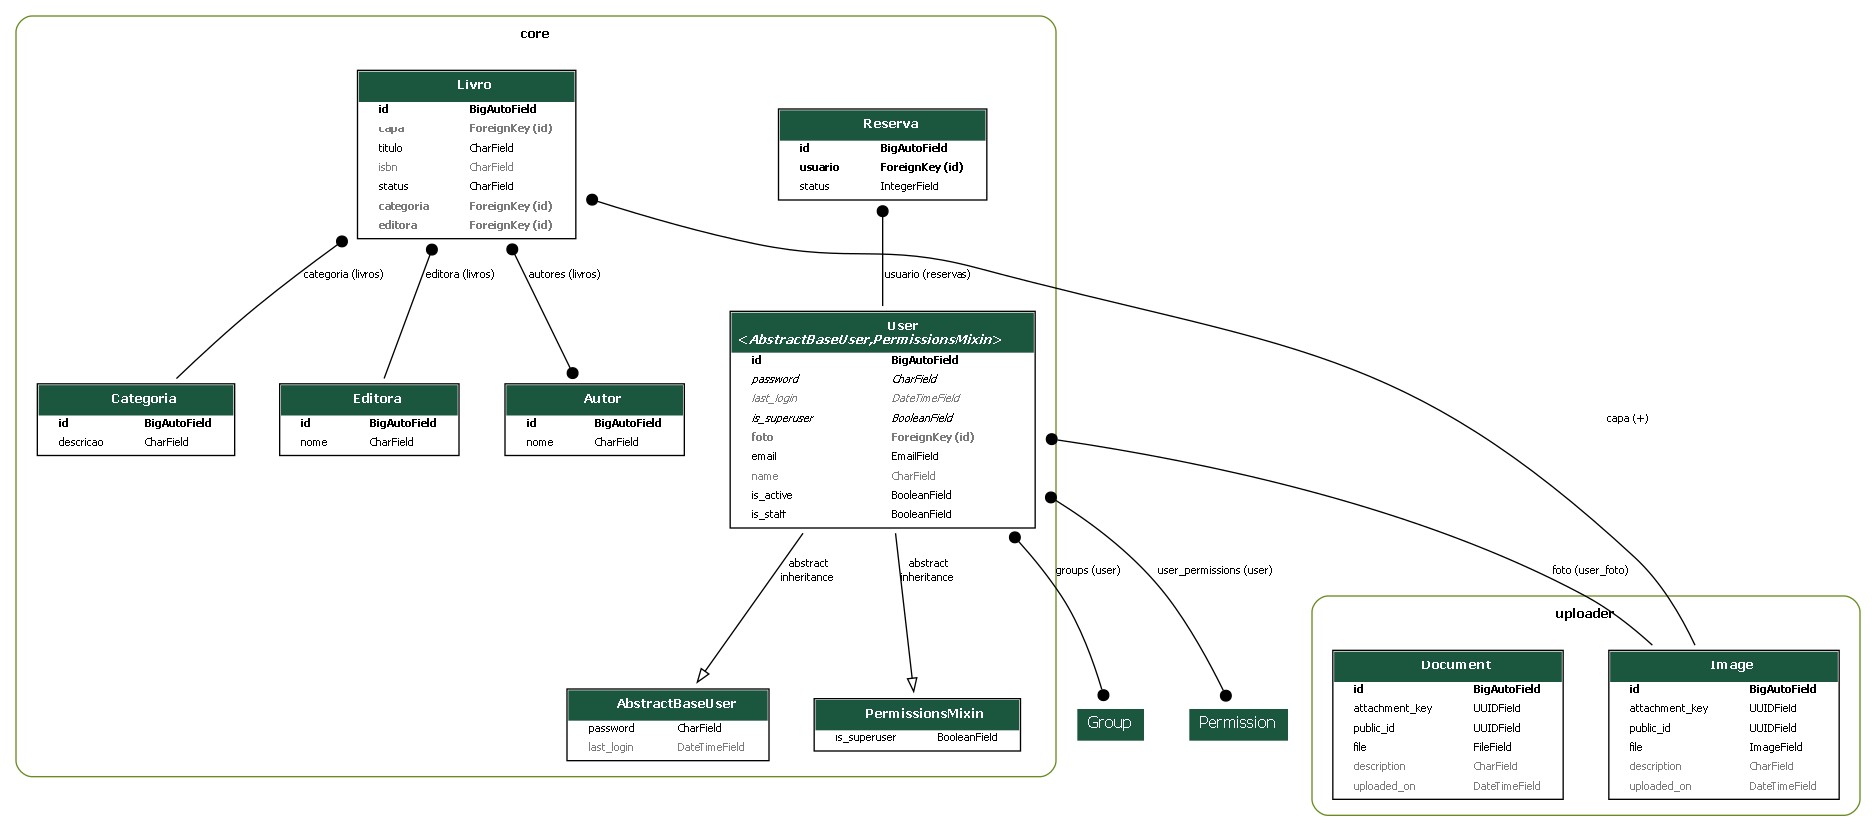
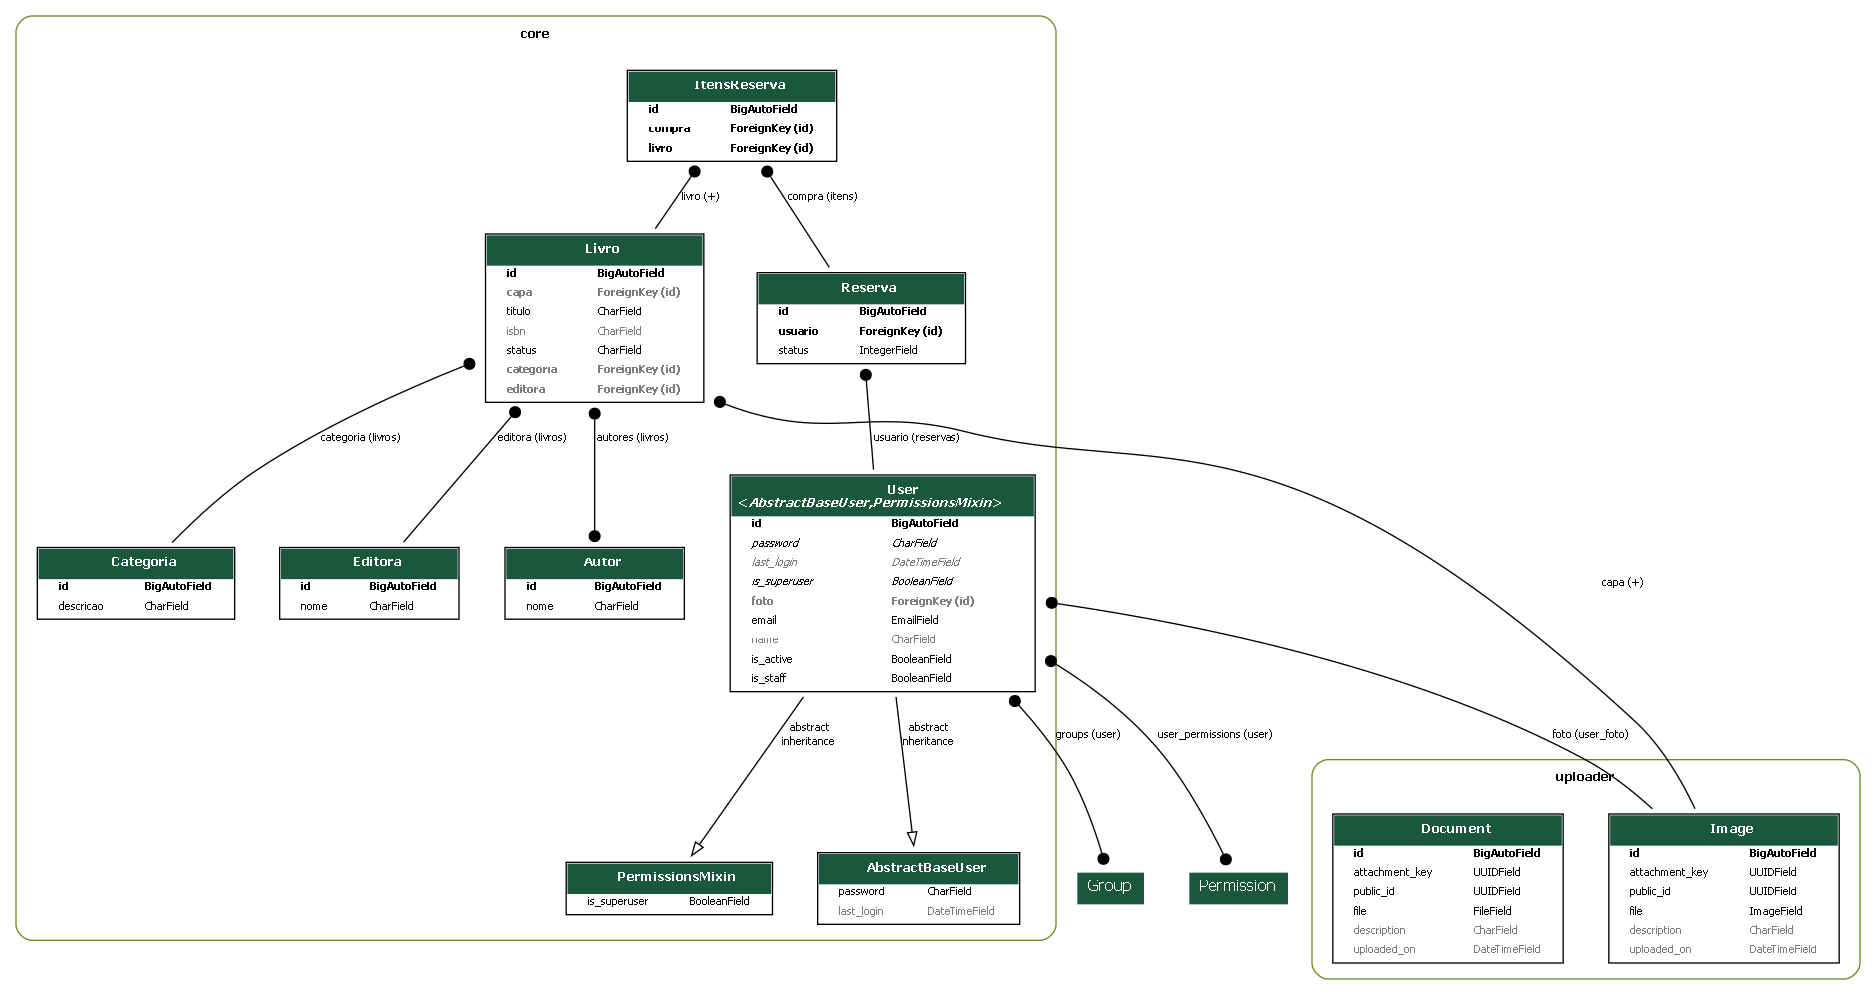
feat: criação dos itens da reserva

diff --git a/core/migrations/0017_itensreserva.py b/core/migrations/0017_itensreserva.py
@@ -1,0 +1,22 @@
+# Generated by Django 5.2.17 on 2026-09-23 11:22
+
+import django.db.models.deletion
+from django.db import migrations, models
+
+
+class Migration(migrations.Migration):
+
+    dependencies = [
+        ('core', '0016_reserva'),
+    ]
+
+    operations = [
+        migrations.CreateModel(
+            name='ItensReserva',
+            fields=[
+                ('id', models.BigAutoField(auto_created=True, primary_key=True, serialize=False, verbose_name='ID')),
+                ('compra', models.ForeignKey(on_delete=django.db.models.deletion.CASCADE, related_name='itens', to='core.reserva')),
+                ('livro', models.ForeignKey(on_delete=django.db.models.deletion.PROTECT, related_name='+', to='core.livro')),
+            ],
+        ),
+    ]

diff --git a/core/admin.py b/core/admin.py
@@ -8,6 +8,7 @@ from django.contrib.auth.admin import UserAdmin as BaseUserAdmin
 from django.utils.translation import gettext_lazy as _
 from core.models import Autor, Categoria, Editora, Livro, User, Reserva
 from core import models
+from core.models.reserva import ItensReserva
 
 @register(User)
 class UserAdmin(BaseUserAdmin):
@@ -89,3 +90,11 @@ class ReservaAdmin(ModelAdmin):
     list_display = ('usuario', 'status')
     ordering = ('usuario', 'status')
     list_per_page = 10
+
+@register(ItensReserva)
+class ItensReservaAdmin(ModelAdmin):
+    list_display = ('reserva', 'livro')
+    search_fields = ('livro__titulo',)
+    list_filter = ('reserva',)
+    ordering = ('reserva', 'livro')
+    list_per_page = 25

diff --git a/core/models/reserva.py b/core/models/reserva.py
@@ -1,5 +1,5 @@
 from django.db import models
-
+from .livro import Livro
 from .user import User
 
 class Reserva(models.Model):
@@ -10,3 +10,7 @@ class Reserva(models.Model):
 
     usuario = models.ForeignKey(User, on_delete=models.PROTECT, related_name='reservas')
     status = models.IntegerField(choices=StatusReserva.choices,  default=StatusReserva.RESERVADO)
+
+class ItensReserva(models.Model):
+    reserva = models.ForeignKey(Reserva, on_delete=models.CASCADE, related_name='itens')
+    livro = models.ForeignKey(Livro, on_delete=models.PROTECT, related_name='+')

diff --git a/core/models/__init__.py b/core/models/__init__.py
@@ -3,4 +3,4 @@ from .categoria import Categoria
 from .editora import Editora
 from .autor import Autor
 from .livro import Livro
-from .reserva import Reserva
+from .reserva import Reserva, ItensReserva
